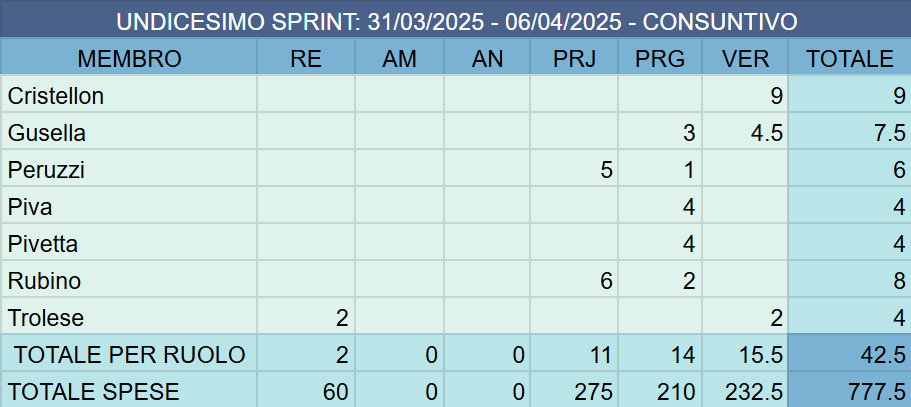
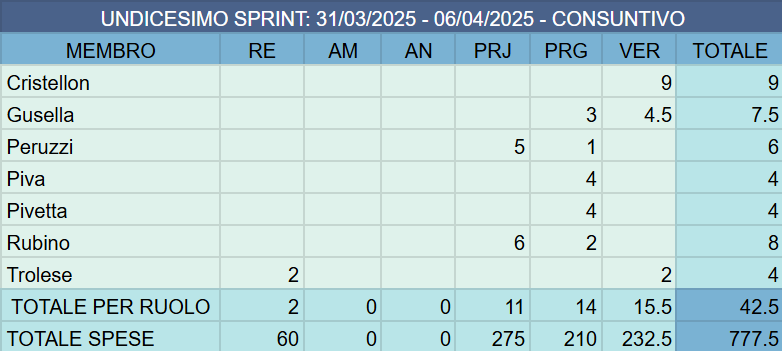
Inserimento immagini ultimo sprint

diff --git a/PB/Documentazione Esterna/Piano_di_Progetto.tex b/PB/Documentazione Esterna/Piano_di_Progetto.tex
@@ -2209,13 +2209,13 @@ Nonostante queste difficoltà, il gruppo è riuscito ad affrontare la prima fase
                 \label{fig:Diagramma circolare della partizione delle ore preventive per ruolo - Undicesimo sprint}
             \end{figure}
             
-            % \paragraph{Consuntivo orario}\mbox{}\vspace{0.4em}
-            % \begin{figure}[ht]
-            %     \centering
-            %     \includegraphics[width=0.6\linewidth]{consuntivoOreUndicesimoSprint.PNG}
-            %     \caption{Consuntivo orario per membro - Undicesimo sprint}
-            %     \label{fig:Consuntivo orario per membro - Undicesimo sprint}
-            % \end{figure}
+            \paragraph{Consuntivo orario}\mbox{}\vspace{0.4em}
+            \begin{figure}[ht]
+                \centering
+                \includegraphics[width=0.6\linewidth]{consuntivoOreUndicesimoSprint.png}
+                \caption{Consuntivo orario per membro - Undicesimo sprint}
+                \label{fig:Consuntivo orario per membro - Undicesimo sprint}
+            \end{figure}
     
             \begin{figure}[H]
                 \centering
@@ -2228,17 +2228,17 @@ Nonostante queste difficoltà, il gruppo è riuscito ad affrontare la prima fase
                         %TODO
                     ]{5/Responsabile - 5\%, 9/Amministratore - 9\%, 10/Analista - 10\%, 25/Verificatore - 25\%, 23/Progettista - 23\%, 28/Programmatore - 28\%}
                 \end{tikzpicture}
-                \caption{Diagramma circolare della partizione delle ore consuntive per ruolo - Decimo sprint}
-                \label{fig:Diagramma circolare della partizione delle ore consuntive per ruolo - Decimo sprint}
+                \caption{Diagramma circolare della partizione delle ore consuntive per ruolo - Undicesimo sprint}
+                \label{fig:Diagramma circolare della partizione delle ore consuntive per ruolo - Undicesimo sprint}
             \end{figure}
     
-            % \paragraph{Rendicontazione delle risorse economiche restanti}\mbox{}\vspace{0.4em}
-            % \begin{figure}[H]
-            %     \centering
-            %     \includegraphics[width=0.6\linewidth]{oreCostiDecimoSprint.png}
-            %     \caption{Consuntivo orario e costi per ruolo - Decimo sprint}
-            %     \label{fig:Consuntivo orario e costi per ruolo - Decimo sprint}
-            % \end{figure}
+            \paragraph{Rendicontazione delle risorse economiche restanti}\mbox{}\vspace{0.4em}
+            \begin{figure}[H]
+                \centering
+                \includegraphics[width=0.6\linewidth]{oreCostiUndicesimoSprint.png}
+                \caption{Consuntivo orario e costi per ruolo - Undicesimo sprint}
+                \label{fig:Consuntivo orario e costi per ruolo - Undicesimo sprint}
+            \end{figure}
             
             % \paragraph{Retrospettiva}\mbox{}\vspace{0.4em}
 
